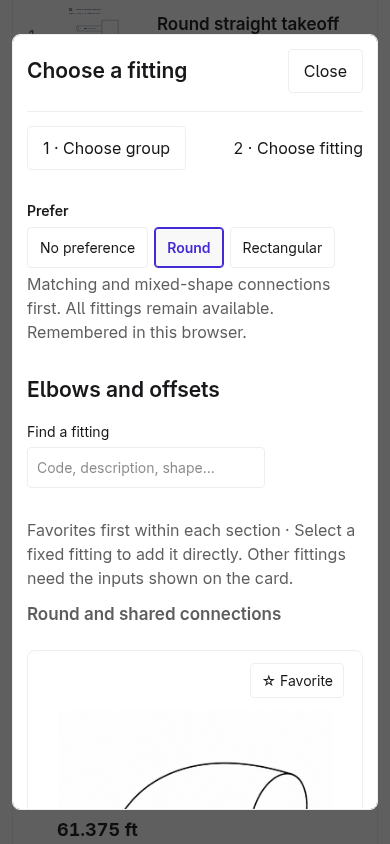
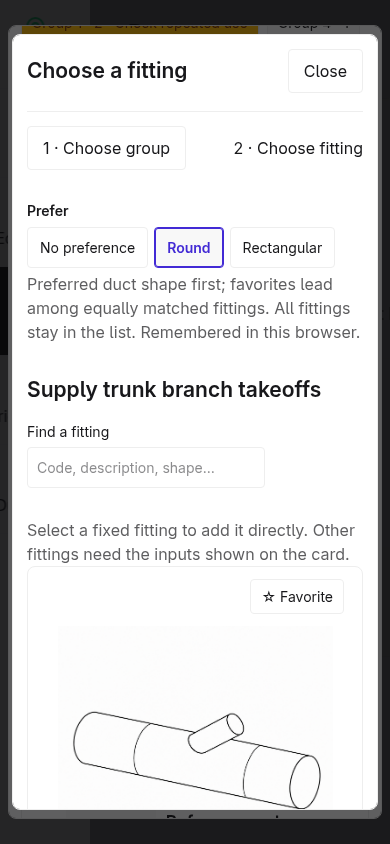
Sort Group 2 by trunk shape in one continuous fitting list

diff --git a/Public/js/fitting-path.js b/Public/js/fitting-path.js
@@ -141,18 +141,12 @@
       const grid = $('#fitting-browser .fitting-grid'); if (!grid) return;
       const active = document.activeElement;
       const cards = [...grid.querySelectorAll('[data-catalog-id]')];
-      const rank = card => shapePreference === 'none' || card.dataset.preferredShapes.split(' ').includes(shapePreference) ? 0 : 1;
+      const rank = card => {
+        if (shapePreference === 'none' || card.dataset.ductShape === shapePreference) return 0;
+        return ['mixed', 'schematic'].includes(card.dataset.ductShape) ? 1 : 2;
+      };
       cards.sort((a,b) => rank(a) - rank(b) || Number(favorites.has(b.dataset.catalogId)) - Number(favorites.has(a.dataset.catalogId)) || Number(a.dataset.order) - Number(b.dataset.order));
-      grid.querySelectorAll('.shape-section-heading').forEach(heading => heading.remove());
-      let section = -1;
       for (const card of cards) {
-        const next = rank(card);
-        if (shapePreference !== 'none' && next !== section) {
-          const heading = document.createElement('h3'); heading.className = 'shape-section-heading'; heading.dataset.shapeSection = next;
-          heading.textContent = next === 0 ? `${shapePreference === 'round' ? 'Round' : 'Rectangular'} and shared connections` : 'Other shapes';
-          grid.append(heading); section = next;
-        }
-        card.dataset.shapeSection = next;
         const button = card.querySelector('[data-favorite]'), selected = favorites.has(card.dataset.catalogId);
         button.setAttribute('aria-pressed', String(selected)); button.textContent = selected ? '★ Favorite' : '☆ Favorite'; grid.append(card);
       }
@@ -161,12 +155,11 @@
     }
     function filterFittings() {
       const target = $('#fitting-browser'), query = $('#catalog-search')?.value.trim().toLowerCase() || '';
-      const visibleSections = new Set(); let count = 0;
+      let count = 0;
       target.querySelectorAll('[data-catalog-id]').forEach(card => {
         card.hidden = !card.dataset.search.toLowerCase().includes(query);
-        if (!card.hidden) { count++; visibleSections.add(card.dataset.shapeSection); }
+        if (!card.hidden) count++;
       });
-      target.querySelectorAll('.shape-section-heading').forEach(heading => { heading.hidden = !visibleSections.has(heading.dataset.shapeSection); });
       if ($('#catalog-empty')) $('#catalog-empty').hidden = count > 0;
     }
     async function chooseGroup(groupID) {

diff --git a/Tests/ViewControllerTests/FittingPickerTests.swift b/Tests/ViewControllerTests/FittingPickerTests.swift
@@ -33,24 +33,25 @@ struct FittingPickerTests {
     }
   }
 
-  @Test func preferenceIncludesConnectionsWithoutRestrictingCatalog() async throws {
+  @Test func preferenceUsesGroupTwoTrunkShapeWithoutRestrictingCatalog() async throws {
     let expected = [
       (1, "1A", "round"), (1, "1D", "rectangular"),
-      (2, "2A", "round rectangular"), (4, "4A", "round rectangular"),
-      (8, "8A-easy-bend", "oval"), (12, "12W", "round rectangular"),
+      (2, "2A", "rectangular"), (2, "2K", "rectangular"),
+      (2, "2N", "round"), (2, "2Q", "round"), (4, "4A", "mixed"),
+      (8, "8A-easy-bend", "oval"), (12, "12W", "schematic"),
     ]
     for (group, id, shapes) in expected {
       let groupID = try #require(Fitting.Group.ID(rawValue: group))
       let definition = try #require(
         try await client.fittings(.init(pathType: .supply, groupID: groupID))
           .first { $0.id.rawValue == id })
-      #expect(definition.pickerPreferredShapes == shapes)
+      #expect(definition.pickerDuctShape.rawValue == shapes)
     }
-    let rendered = await html(.group("{\"pathType\":\"supply\",\"groupID\":1}"))
-    #expect(rendered.contains("data-catalog-id=\"1A\""))
-    #expect(rendered.contains("data-catalog-id=\"1D\""))
-    #expect(rendered.contains("data-preferred-shapes=\"round\""))
-    #expect(rendered.contains("data-preferred-shapes=\"rectangular\""))
+    let rendered = await html(.group("{\"pathType\":\"supply\",\"groupID\":2}"))
+    #expect(rendered.contains("data-catalog-id=\"2A\""))
+    #expect(rendered.contains("data-catalog-id=\"2N\""))
+    #expect(rendered.contains("data-duct-shape=\"round\""))
+    #expect(rendered.contains("data-duct-shape=\"rectangular\""))
   }
 
   @Test func defaultsAreOnlyAppliedWhenOpeningADraft() async throws {

diff --git a/Sources/ViewController/Views/FittingPicker/ProjectFittingPathController.swift b/Sources/ViewController/Views/FittingPicker/ProjectFittingPathController.swift
@@ -187,7 +187,7 @@ struct FittingBrowserCard: HTML, Sendable {
         value:
           "\(definition.sourceCode?.rawValue ?? "Group 11") \(definition.name) \(definition.shape.rawValue)"
       ),
-      .data("preferred-shapes", value: definition.pickerPreferredShapes),
+      .data("duct-shape", value: definition.pickerDuctShape.rawValue),
       .data("fixed", value: definition.inputRequirement == .fixed ? "true" : "false")
     ) {
       button(
@@ -220,20 +220,22 @@ struct GroupBrowserView: HTML, Sendable {
       }
     }
     p(.class("muted")) {
-      "Favorites first within each section · Select a fixed fitting to add it directly. Other fittings need the inputs shown on the card."
+      "Select a fixed fitting to add it directly. Other fittings need the inputs shown on the card."
     }
     div(.class("grid fitting-grid")) { for card in cards { card } }
     p(.id("catalog-empty"), .hidden) { "No matching fittings in this group." }
   }
 }
 
-// Presentation affinity only: mixed connections and shape-neutral schematics remain
-// alongside either preference. Do not interpret artwork shape as a path constraint.
+// Picker ordering follows the trunk connection for Group 2, not the branch outlet.
+// Keep this presentation hint separate from the catalog's overall artwork shape.
 extension Fitting.Definition {
-  var pickerPreferredShapes: String {
-    switch shape {
-    case .mixed, .schematic: "round rectangular"
-    default: shape.rawValue
+  var pickerDuctShape: Fitting.Shape {
+    if groupID == .supplyBranches,
+      ["2A", "2B", "2C", "2I", "2J", "2K"].contains(sourceCode?.rawValue ?? "")
+    {
+      return .rectangular
     }
+    return shape
   }
 }

diff --git a/Sources/ViewController/Views/FittingPicker/ProjectFittingPathView.swift b/Sources/ViewController/Views/FittingPicker/ProjectFittingPathView.swift
@@ -102,7 +102,7 @@ struct ProjectFittingPathView: HTML, Sendable {
             .init(value: "rectangular", label: "Rectangular"),
           ], selected: "none")
         p(.class("muted picker-preference-help")) {
-          "Matching and mixed-shape connections first. All fittings remain available. Remembered in this browser."
+          "Preferred duct shape first; favorites lead among equally matched fittings. All fittings stay in the list. Remembered in this browser."
         }
         div(.id("group-selectors")) {
           for (path, items) in carousels {

diff --git a/Public/css/picker-preference.css b/Public/css/picker-preference.css
@@ -16,7 +16,5 @@
     box-shadow: inset 0 0 0 1px var(--accent); font-weight: 600;
   }
   .picker-segment-options input:focus-visible + span { outline: 2px solid var(--accent); outline-offset: 3px; }
-  .shape-section-heading { grid-column: 1 / -1; padding-top: 12px; color: var(--muted); }
-  .shape-section-heading[hidden] { display: none; }
   .picker-preference-help { margin-bottom: 16px; }
 }

diff --git a/docs/fitting-picker-preview.md b/docs/fitting-picker-preview.md
@@ -13,13 +13,17 @@ the editor and draft open.
 
 - The prototype's tall path rows, drawing-led Add fitting dialog, three-card looping
   group carousel, favorites-first cards, inline conditional inputs, and fitting totals.
-- **Prefer: No preference / Round / Rectangular** in the picker brings matching fittings
-  and shared connections to the top; favorites lead within each section. Other shapes
-  stay visible and searchable. The browser remembers this presentation preference across
-  groups and reloads; it is not stored on the project or inferred from selected fittings.
-  Mixed-shape connections and shape-neutral schematics appear with either preference;
-  oval fittings appear under Other shapes. Changing the toggle preserves card inputs,
-  path entries, and calculations. If browser storage is blocked it lasts for the editor session.
+- **Prefer: No preference / Round / Rectangular** reorders one continuous list; it
+  adds no sections and hides no fittings. Direct matches come first, followed by mixed
+  connections/shape-neutral schematics, then other shapes. Favorites lead among equally
+  matched fittings; No preference restores favorites-first source order.
+  Group 2 uses **trunk shape**: Round puts **2N–2Q first**; Rectangular puts **2A–2M first**,
+  including round branches on rectangular trunks. Mixed boots remain available without
+  being treated as direct matches for both shapes.
+  The browser remembers this presentation preference across groups and reloads; it is
+  not stored on the project or inferred from selected fittings. Changing the toggle
+  preserves card inputs, path entries, and calculations. If browser storage is blocked
+  it lasts for the editor session.
 - Fixed fittings add directly from their drawing. Quantity is edited in the path list.
 - All 227 catalog choices use the Swift `FittingClient`. The browser contains no fitting tables.
 - Quick reference entry retains the supplied fractional length and distinguishes it from
@@ -62,7 +66,7 @@ the editor and draft open.
 | `Sources/DatabaseClient` | Additive saved-row metadata, project ownership lookup, and per-user favorites |
 | `Public/js/fitting-path.js`, `group-carousel.js` | Interaction state, gestures, requests, quantities, and totals |
 | `Public/css/fitting-path-modal.css` | Desktop/mobile editor dimensions and spacing |
-| `Public/css/picker-preference.css` | Scoped preference toggle and section styles |
+| `Public/css/picker-preference.css` | Scoped preference toggle styles |
 | `Public/css/fitting-path.css` | Scoped presentation ported from the agreed prototype |
 
 The frozen prototypes are unchanged. The separate `/fittings` preview has been retired;
@@ -146,7 +150,7 @@ directory. The scripts check real save/reopen/edit flows, fractional reference l
 quantities, favorites across reloads, Group 11 controls, Group 6 saved contributions,
 server-authoritative calculations, row identity, stale-save rejection, carousel looping,
 and desktop/mobile layouts. The preference check covers ordering, mixed connections,
-favorites within sections, searches across shapes, unchanged card inputs and saved paths,
+Group 2 trunk-shape ordering, favorites among equal matches, searches across shapes, unchanged card inputs and saved paths,
 keyboard navigation, mobile layout, reload persistence, and blocked browser storage.
 The modal change passes all **15 Swift view and picker tests**. Browser flows save back
 to the list and reopen through its Edit link. The modal check verifies viewport sizing,
